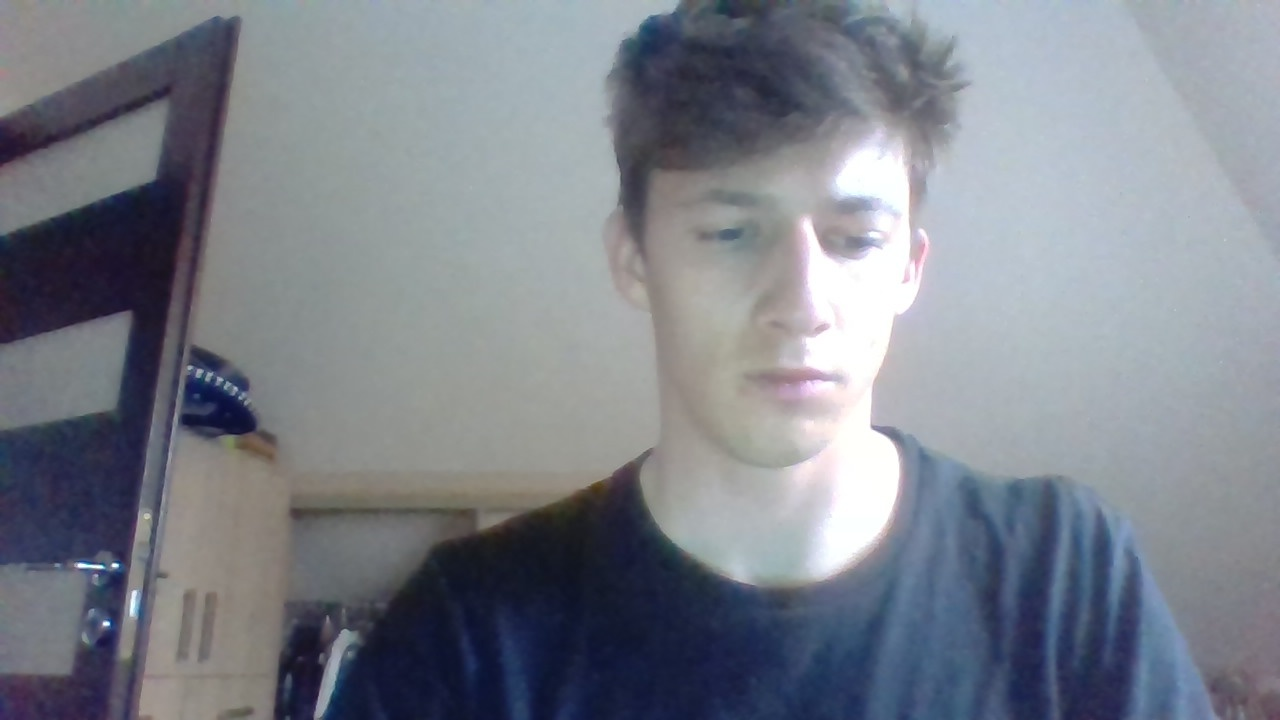
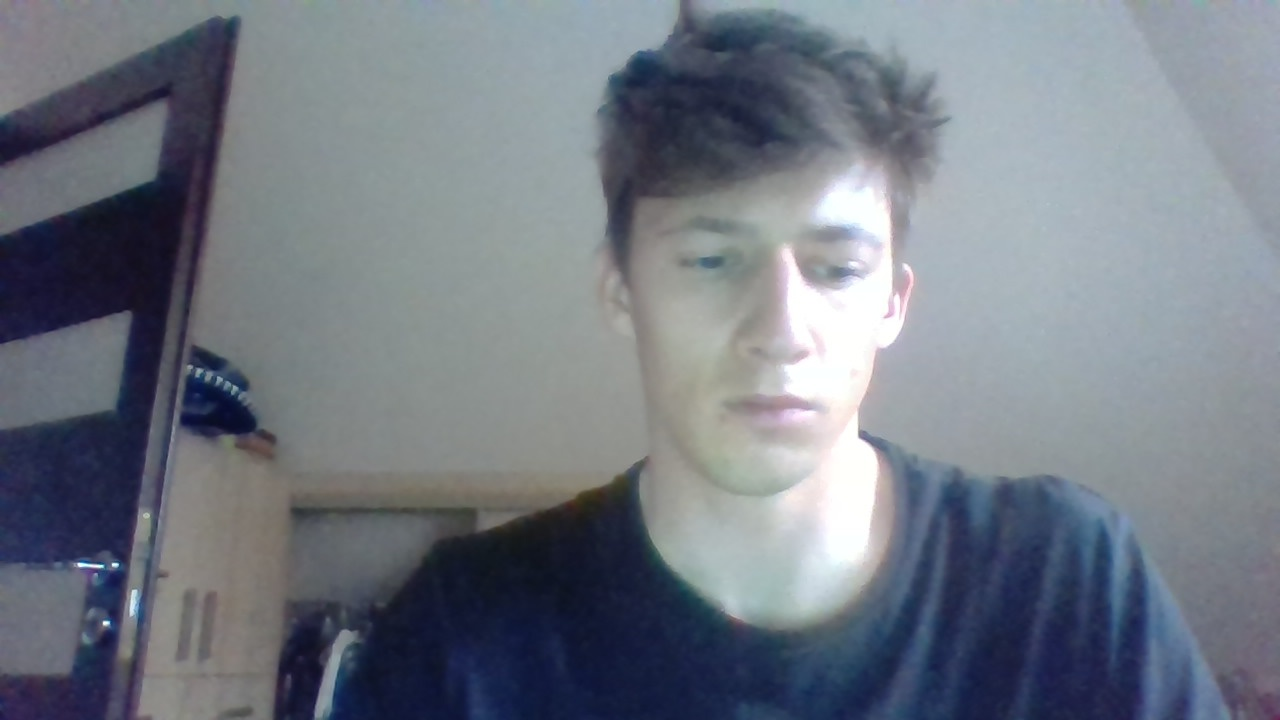
aplikacja skomunikowana z rpi

diff --git a/Camera/test_scripts/templates/stream.html b/Camera/test_scripts/templates/stream.html
@@ -1,11 +1,23 @@
-<html>
-  <head>
+<!DOCTYPE html>
+<html lang = "en">
+<head>
+    <meta charset = "UTF-8">
+    <meta name = "viewport" content = "width = device - width, initial - scale = 1.0">
     <title>The Great Swarn</title>
+    <meta name="keywords" content="robots swarn">
+    <meta name="description" content="TGS (&quot;The great Swarn&quot;) so far not the greatest but its dreams are big...">
   </head>
   <body>
-    <h1>The Great Swarn stream </h1>
-    <img id="bg" src="{{ url_for('video_feed') }}">
+    <h1>The Great Swarn</h1>
+    <h2>Live Stream</h2>
+    <a href = "{{ url_for('video_feed') }}">
+      <img id = "bg" src = "{{ url_for('video_feed') }}" alt = "live stream of our swarn">
+    </a>
+    <p> 
+      Academic project of the swarm of mobile robots - system for controlling and monitoring mobile robots with differential drive. The system consists of a graphical user interface, mobile robot software and software for detecting obstacles.    </p> 
     <br>
-    <input type="button" value = "random button">
+    <a href="#"><input type="button" value = "back to TOP"></a>
+    <h2>Links</h2>
+    <a href="https://github.com/Gwardii/Swarm-of-Mobile-Robots" target = "_blank">our github</a>
   </body>
 </html>

diff --git a/Computer/states.py b/Computer/states.py
@@ -21,7 +21,7 @@ class RPI_Communication(State):
         super().__init__()
         self.rpi_ip = rpi_ip
         self.rpi_port=port
-        self.rpi_server = RPI_Communication_Server(self.rpi_ip,self.rpi_port)
+        self.rpi_server = RPI_Communication_Server(self.rpi_ip, self.rpi_port)
         
     def Execute(self):
         while self.rpi_server.is_rpi_connected == False:
@@ -31,31 +31,39 @@ class RPI_Communication(State):
         obstacles_json=None
         is_obstacle_received=False
         tik=time.time()
-        err_num=0
+        err_num = 0
+
         while not is_area_received:
-            if time.time()-tik >=2:
-                print("Application did not receive Area JSON")
-                err_num+=1
-                break
+            # if time.time()-tik >=2:
+            #     print("Application did not receive Area JSON")
+            #     err_num+=1
+            #     break
             if self.rpi_server.message_received == True:
-                area_json = self.rpi_server.get_msg()
-                is_area_received=True
-                break
+                area_json = json.loads(self.rpi_server.get_msg())
+                is_area_received = True
+                self.rpi_server.message_received = False
+                
         tik = time.time()
+
         while not is_obstacle_received:
-            if time.time()-tik >=2:
-                print("Application did not receive obstacles JSON")
-                err_num+=1
-                break
+            # if time.time()-tik >=2:
+            #     print("Application did not receive obstacles JSON")
+            #     err_num+=1
+            #     break
             if self.rpi_server.message_received == True:
-                obstacles_json=self.rpi_server.get_msg()
-                is_obstacle_received=True
-                break
-        if(err_num == 0):
-            with open(".\Computer\\resources\\obstacles.json","w") as af:
-                json.dump(area_json,af)
+                obstacles_json = json.loads(self.rpi_server.get_msg())
+                is_obstacle_received = True
+                self.rpi_server.message_received = False
+                
+        if err_num == 0:   
+
             with open(".\Computer\\resources\\area.json","w") as af:
-                json.dump(obstacles_json,af)
+                json.dump(area_json, af, indent = 2)
+            
+            with open(".\Computer\\resources\\obstacles.json","w") as of:
+                json.dump(obstacles_json, of, indent = 2)
+            
+            print("JSON files received")
 
 class Initialization(State):
     ## States

diff --git a/Computer/communication/RPI_server.py b/Computer/communication/RPI_server.py
@@ -7,7 +7,7 @@ import json
 #wiecej nie jest potrzebne
 
 class RPI_Communication_Server:
-    def __init__(self,host = "localhost", port=9999):
+    def __init__(self, host = "localhost", port = 9999):
         # for seting up conection:
         self._host = host
         self._port = port
@@ -16,7 +16,7 @@ class RPI_Communication_Server:
         self._rpi_server_socket.bind((self._host,self._port))
         
         # start separated thread for server:
-        self._rpi_communication_thread = threading.Thread(target = self._server_listen)
+        self._rpi_communication_thread = threading.Thread(target = self._server_listen_)
         self._rpi_communication_thread.start()
         
         # constants for comunnication:
@@ -26,36 +26,38 @@ class RPI_Communication_Server:
         # real data:
         self._buffer = ""
         self._command = ""
-        self.is_rpi_connected=False
-        self.message_received=False
+        self.is_rpi_connected = False
+        self.message_received = False
         self.full_msg = ''
         
-    def _server_listen(self):
+    def _server_listen_(self):
+
         # start listening for new connection
         self._rpi_server_socket.listen()
-        self.is_rpi_connected = True
+        self.is_rpi_connected = True 
+        print("\nListening for client..")
         while True:
             
             full_msg=""
-            print("\nListening for client..")
+           
             conn, addr = self._rpi_server_socket.accept()
             self.message_received = False
-            print("Connection address: ", addr)
+           # print("Connection address: ", addr)
             
             self._buffer = conn.recv(self.buffer_size)
             
-            print(f"new message lenght: {self._buffer[:self.HEADER_SIZE].decode('utf-8')}")
+            #print(f"new message lenght: {self._buffer[:self.HEADER_SIZE].decode('utf-8')}")
             msglen = int(self._buffer[:self.HEADER_SIZE])
            
             while (len(full_msg) - self.HEADER_SIZE) < msglen:
                 full_msg += self._buffer.decode("utf-8") 
                 self._buffer = conn.recv(self.buffer_size)
                 
-            print("full msg recvd")
+           # print("full msg recvd")
             self.full_msg = full_msg[self.HEADER_SIZE:]
             full_msg = ''
             self._buffer = ''
-            self.message_received=True
+            self.message_received = True
             conn.close()
             
 

diff --git a/Camera/aruco_detection.py b/Camera/aruco_detection.py
@@ -7,6 +7,7 @@ import math
 from threading import Thread
 import argparse
 from pynput import keyboard
+from RPI_client import RPI_Communication_Client
 
 
 # construct the argument parse and parse the arguments
@@ -14,8 +15,6 @@ ap = argparse.ArgumentParser()
 ap.add_argument("-d", "--display", type = int, default = 1,
 help = "Whether or not frames should be displayed")
 args = vars(ap.parse_args())
-
-  
 
 # table real sizes; 
 # assumption that table is rectangle and longer side is on x axis (width on photo)
@@ -348,14 +347,18 @@ def main():
     aruco_markers = Aruco_markers()
   
     # start video capturing
-    camera = Camera(0, 1280, 720, 40)
+    camera = Camera(0, 640, 480, 40)
     aruco_markers.aruco_Cam_param = camera.camera_calibration_params
     # start separate thread:
     camera.start()
         
-    # load images to augment  
+    # load images for augment  
     aruco_markers.load_Aug_Images("./Camera/images")
 
+    # start client for json sending:
+    client = RPI_Communication_Client(host = "192.168.0.31", port = 9999)
+
+    # stop script conditions:
     print("\npress:\n- q to quit")
 
     def on_press(key):
@@ -385,9 +388,14 @@ def main():
             cv2.imshow("ARUCO DETECTION", img)
             cv2.waitKey(1)
         
-        # stream video:
+        # save stream video:
         cv2.imwrite('./Camera/test_scripts/stream/stream.jpg', img)
-       
+
+        # send json files:
+        client.send_json(json.load(open("./Computer/resources/area.json", 'r')))
+        client.send_json(json.load(open("./Computer/resources/obstacles.json", 'r')))
+        client.send_json(json.load(open("./Computer/resources/robots.json", 'r')))
+
         # quit on pressed 'q':
         if not(k.is_alive()):
             print('\nquitting...\n')

diff --git a/Camera/RPI_client.py b/Camera/RPI_client.py
@@ -11,11 +11,10 @@ class RPI_Communication_Client():
         self.buffer_size = 30
         self.HEADER_SIZE = 10
 
-    def send_json(self,json_message):
+    def send_json(self, json_message):
 
         # local_ip=socket.gethostbyname(socket.gethostname())
-        json_data = json.dumps(json_message, sort_keys=False, indent=2)
-        print(len(json_data))
+        json_data = json.dumps(json_message, sort_keys = False, indent = 2)
         json_data = f'{len(json_data):<{self.HEADER_SIZE}}' + json_data
         self._send_message(json_data)
         return json_data    
@@ -23,7 +22,7 @@ class RPI_Communication_Client():
     def _send_message(self, data):
 
         self.message_sended = False
-        self.rpi_client_socket=socket.socket(socket.AF_INET, socket.SOCK_STREAM)
+        self.rpi_client_socket = socket.socket(socket.AF_INET, socket.SOCK_STREAM)
         self.rpi_client_socket.connect((self.host, self.port))
         self.rpi_client_socket.sendall(data.encode())
         self.rpi_client_socket.close()
@@ -73,7 +72,7 @@ class RPI_Communication_Client():
 # },
 # {
 #     "id": 2,
-#     "center": {
+#     "center": {qq
 #     "x": 1328,
 #     "y": 976
 #     },

diff --git a/Computer/application.py b/Computer/application.py
@@ -75,14 +75,14 @@ class Application(object):
 
 
 def main():
-    
-    app = Application()
+
+    app = Application(rpi_ip = "192.168.0.31", rpi_port = 9999)
     # start comunnication with raspberry pi:
     app.set_state(app.states.rpi_communication)
-    app.rpi_communicatiom=True
+    app.rpi_communicatiom = True
     # start initializations:
     gui = app.change_state(app.transitions.start_init)
-    app.initialization=True
+    app.initialization = True
     # draw obstacles:
     app.change_state(app.transitions.draw_obstacles)
     # draw first iteration of path
@@ -103,7 +103,6 @@ def main():
         # update aplication's window:
         app.gui.window.update_idletasks()
         app.gui.window.update()
-
 
 if __name__ == "__main__":
     main()

diff --git a/Computer/GUI.py b/Computer/GUI.py
@@ -26,7 +26,7 @@ class GUI:
         :number_of_robots: how many robots will be handled
         '''
         self.cell_size = cell_size
-        self.cap = cv2.VideoCapture('http://192.168.1.112:1234/video_feed')
+        self.cap = cv2.VideoCapture('http://192.168.0.52:1234/video_feed')
         
         # create window for aplication:
         self.window = tk.Tk()
